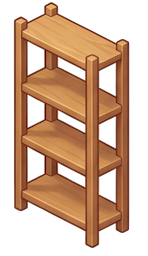
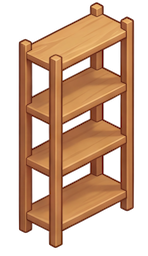
Per-item sprite config, improved drag UX, rules update
- Add spriteScale/spriteX/spriteY per furniture in items.js
- Move soporte from furniture to herramienta (Rule 2 → Rule 3)
- Prioritize attached items over furniture on click detection
- Add DRAG_CELL_OFFSET_Y for better highlight alignment during drag
- Improve item layout spacing on furniture
- Flip estanteria sprite horizontally

diff --git a/games/cozy_dombyto/src/data/items.js b/games/cozy_dombyto/src/data/items.js
@@ -3,12 +3,11 @@
 
   window.ITEMS_DATA = {
     furniture: [
-      { id: 'tablero',    emoji: '🔲', label: 'Tablero',        gridW: 2, gridH: 1, accepts: ['herramienta'], required: true },
-      { id: 'mesa',       emoji: '🪑', label: 'Mesa',           gridW: 2, gridH: 2, accepts: ['herramienta'], required: true },
-      { id: 'estanteria', emoji: '🗄', label: 'Estantería',    gridW: 1, gridH: 2, accepts: ['material'],    required: true },
-      { id: 'contenedor', emoji: '🗑', label: 'Contenedor',    gridW: 1, gridH: 1, accepts: ['residuo'],     required: true },
-      { id: 'lampara',    emoji: '💡', label: 'Lámpara',        gridW: 1, gridH: 1, accepts: [],              required: true },
-      { id: 'soporte',    emoji: '📱', label: 'Soporte móvil',  gridW: 1, gridH: 1, accepts: [],              required: true }
+      { id: 'tablero',    emoji: '🔲', label: 'Tablero',        gridW: 2, gridH: 1, accepts: ['herramienta'], required: true, spriteScale: 0.90, spriteX: 0, spriteY: -70 },
+      { id: 'mesa',       emoji: '🪑', label: 'Mesa',           gridW: 2, gridH: 2, accepts: ['herramienta'], required: true, spriteScale: 1.0, spriteX: 5,   spriteY: -55 },
+      { id: 'estanteria', emoji: '🗄', label: 'Estantería',    gridW: 1, gridH: 2, accepts: ['material'],    required: true, spriteScale: 1.40, spriteX: 0,   spriteY: -125 },
+      { id: 'contenedor', emoji: '🗑', label: 'Contenedor',    gridW: 1, gridH: 1, accepts: ['residuo'],     required: true, spriteScale: 1.0, spriteX: 0,   spriteY: -50 },
+      { id: 'lampara',    emoji: '💡', label: 'Lámpara',        gridW: 1, gridH: 1, accepts: [],              required: true, spriteScale: 1.0, spriteX: -20,   spriteY: -80 },
     ],
 
     herramientas: [
@@ -19,7 +18,8 @@
       { id: 'tijera',        emoji: '✂', label: 'Tijera eléctr.', category: 'herramienta', requiredByYaiza: false, correctFurniture: ['tablero', 'mesa'] },
       { id: 'llave',         emoji: '🔩', label: 'Llave inglesa',  category: 'herramienta', requiredByYaiza: false, correctFurniture: ['tablero', 'mesa'] },
       { id: 'taladro',       emoji: '🔨', label: 'Taladro',        category: 'herramienta', requiredByYaiza: false, correctFurniture: ['tablero', 'mesa'] },
-      { id: 'nivel_laser',   emoji: '📐', label: 'Nivel láser',    category: 'herramienta', requiredByYaiza: false, correctFurniture: ['tablero', 'mesa'] }
+      { id: 'nivel_laser',   emoji: '📐', label: 'Nivel láser',    category: 'herramienta', requiredByYaiza: false, correctFurniture: ['tablero', 'mesa'] },
+      { id: 'soporte',       emoji: '📱', label: 'Soporte móvil',  category: 'herramienta', requiredByYaiza: true, correctFurniture: ['tablero', 'mesa'] }
     ],
 
     material: [
@@ -74,8 +74,7 @@
     },
     rule2: {
       messages: {
-        lampara: '¡No veo nada! ¡La luz no está puesta!',
-        soporte: '¡No tengo el móvil a mano! ¡No puedo ver la dirección de Yaiza!'
+        lampara: '¡No veo nada! ¡La luz no está puesta!'
       }
     },
     rule3: {
@@ -84,7 +83,8 @@
         alicates:       '¡Los alicates no están en el taller! ¡Los necesito!',
         pelacables:     '¡El pelacables no está! ¿Cómo pelo los cables?',
         multimetro:     '¡El multímetro sigue en la caja sin abrir! No me lo puedo llevar.',
-        diferencial:    '¡El diferencial de repuesto no está en la estantería! Lo necesito.'
+        diferencial:    '¡El diferencial de repuesto no está en la estantería! Lo necesito.',
+        soporte:        '¡No tengo el móvil a mano! ¡No puedo ver la dirección de Yaiza!'
       }
     },
     rule4: {

diff --git a/games/cozy_dombyto/src/scenes/WorkshopScene.js b/games/cozy_dombyto/src/scenes/WorkshopScene.js
@@ -6,6 +6,7 @@
   var INVENTORY_W = 400;
   var GRID_AREA_RIGHT = W - INVENTORY_W;
   var GRID_DRAG_THRESHOLD = 20;
+  var DRAG_CELL_OFFSET_Y = 70; // offset pointer Y when calculating target cell during drag
 
   window.WorkshopScene = new Phaser.Class({
     Extends: Phaser.Scene,
@@ -144,8 +145,34 @@
         // Check if a furniture occupies this cell
         var furnId = scene.grid.getFurnitureIdAtCell(cell.col, cell.row);
         if (furnId && scene.placedFurnitures[furnId]) {
+          var furn = scene.placedFurnitures[furnId];
+
+          // Check attached items first — pick the closest one to the pointer
+          if (furn.attachedItems.length > 0) {
+            var closestItem = null;
+            var closestDist = Infinity;
+            for (var j = 0; j < furn.attachedItems.length; j++) {
+              var ai = furn.attachedItems[j];
+              var dx = pointer.x - ai.container.x;
+              var dy = pointer.y - ai.container.y;
+              var dist = dx * dx + dy * dy;
+              if (dist < closestDist) {
+                closestDist = dist;
+                closestItem = ai;
+              }
+            }
+            // If pointer is within ~60px of an item, select the item
+            if (closestItem && closestDist < 60 * 60) {
+              scene._pendingGridDrag = {
+                type: 'item', obj: closestItem,
+                startX: pointer.x, startY: pointer.y
+              };
+              return;
+            }
+          }
+
           scene._pendingGridDrag = {
-            type: 'furniture', obj: scene.placedFurnitures[furnId],
+            type: 'furniture', obj: furn,
             startX: pointer.x, startY: pointer.y
           };
           return;
@@ -269,7 +296,7 @@
         drag.ghost.setPosition(pointer.x, pointer.y);
 
         if (pointer.x < this.inventoryLeft) {
-          var cell = this.grid.screenToCell(pointer.x, pointer.y);
+          var cell = this.grid.screenToCell(pointer.x, pointer.y + DRAG_CELL_OFFSET_Y);
           if (this.grid.isValidCell(cell.col, cell.row)) {
             if (drag.isFurniture) {
               this.grid.highlightCells(cell.col, cell.row, drag.def.gridW, drag.def.gridH);
@@ -301,7 +328,7 @@
       this.activeDrag = null;
       this.grid.clearHighlights();
 
-      var cell = this.grid.screenToCell(pointer.x, pointer.y);
+      var cell = this.grid.screenToCell(pointer.x, pointer.y + DRAG_CELL_OFFSET_Y);
       var isOnGrid = pointer.x < this.inventoryLeft && this.grid.isValidCell(cell.col, cell.row);
 
       if (isOnGrid && drag.isFurniture) {

diff --git a/games/cozy_dombyto/src/objects/Furniture.js b/games/cozy_dombyto/src/objects/Furniture.js
@@ -20,9 +20,11 @@
     var hw = grid.tileW * def.gridW / 2;
     var hh = grid.tileH * def.gridH / 2;
 
-    // Sprite
-    var spriteScale = def.gridW >= 2 ? 0.90 : 0.50;
-    this.sprite = scene.add.image(-20, -30, 'item_' + def.id).setScale(spriteScale);
+    // Sprite (per-item scale & offset from definition)
+    var spriteScale = def.spriteScale !== undefined ? def.spriteScale : 0.50;
+    var spriteX = def.spriteX || 0;
+    var spriteY = def.spriteY || 0;
+    this.sprite = scene.add.image(spriteX, spriteY, 'item_' + def.id).setScale(spriteScale);
     this.container.add(this.sprite);
 
     // Label
@@ -56,13 +58,17 @@
 
   proto._layoutItems = function () {
     var count = this.attachedItems.length;
-    var spacing = Math.min(48, 120 / Math.max(count, 1));
+    if (count === 0) return;
+
+    // Spread items across the furniture footprint with generous spacing
+    var footprintW = this.grid.tileW * this.def.gridW;
+    var spacing = Math.min(80, (footprintW * 0.7) / Math.max(count, 1));
     var startX = -(count - 1) * spacing / 2;
 
     for (var i = 0; i < count; i++) {
       var item = this.attachedItems[i];
       var tx = startX + i * spacing;
-      var ty = -56 - (i % 2) * 20;
+      var ty = -50 - (i % 2) * 24;
       item.container.setPosition(this.container.x + tx, this.container.y + ty);
     }
   };

diff --git a/games/cozy_dombyto/src/logic/RulesEngine.js b/games/cozy_dombyto/src/logic/RulesEngine.js
@@ -19,20 +19,17 @@
       result.score += 25;
       result.successes.push('Muebles principales colocados');
 
-      // ---- Rule 2: Lamp + mobile support placed ----
-      var infra = ['lampara', 'soporte'];
-      for (var j = 0; j < infra.length; j++) {
-        if (placed.indexOf(infra[j]) === -1) {
-          result.failedRule = 2;
-          result.failMessage = RULES_DATA.rule2.messages[infra[j]];
-          return result;
-        }
+      // ---- Rule 2: Lamp placed ----
+      if (placed.indexOf('lampara') === -1) {
+        result.failedRule = 2;
+        result.failMessage = RULES_DATA.rule2.messages.lampara;
+        return result;
       }
       result.score += 25;
-      result.successes.push('Luz y soporte móvil listos');
+      result.successes.push('Luz preparada');
 
       // ---- Rule 3: 5 required items on grid (not in inventory) ----
-      var requiredItems = ['destornillador', 'alicates', 'pelacables', 'multimetro', 'diferencial'];
+      var requiredItems = ['destornillador', 'alicates', 'pelacables', 'multimetro', 'diferencial', 'soporte'];
       var onGrid = state.getItemsOnGrid();
       for (var k = 0; k < requiredItems.length; k++) {
         if (onGrid.indexOf(requiredItems[k]) === -1) {
